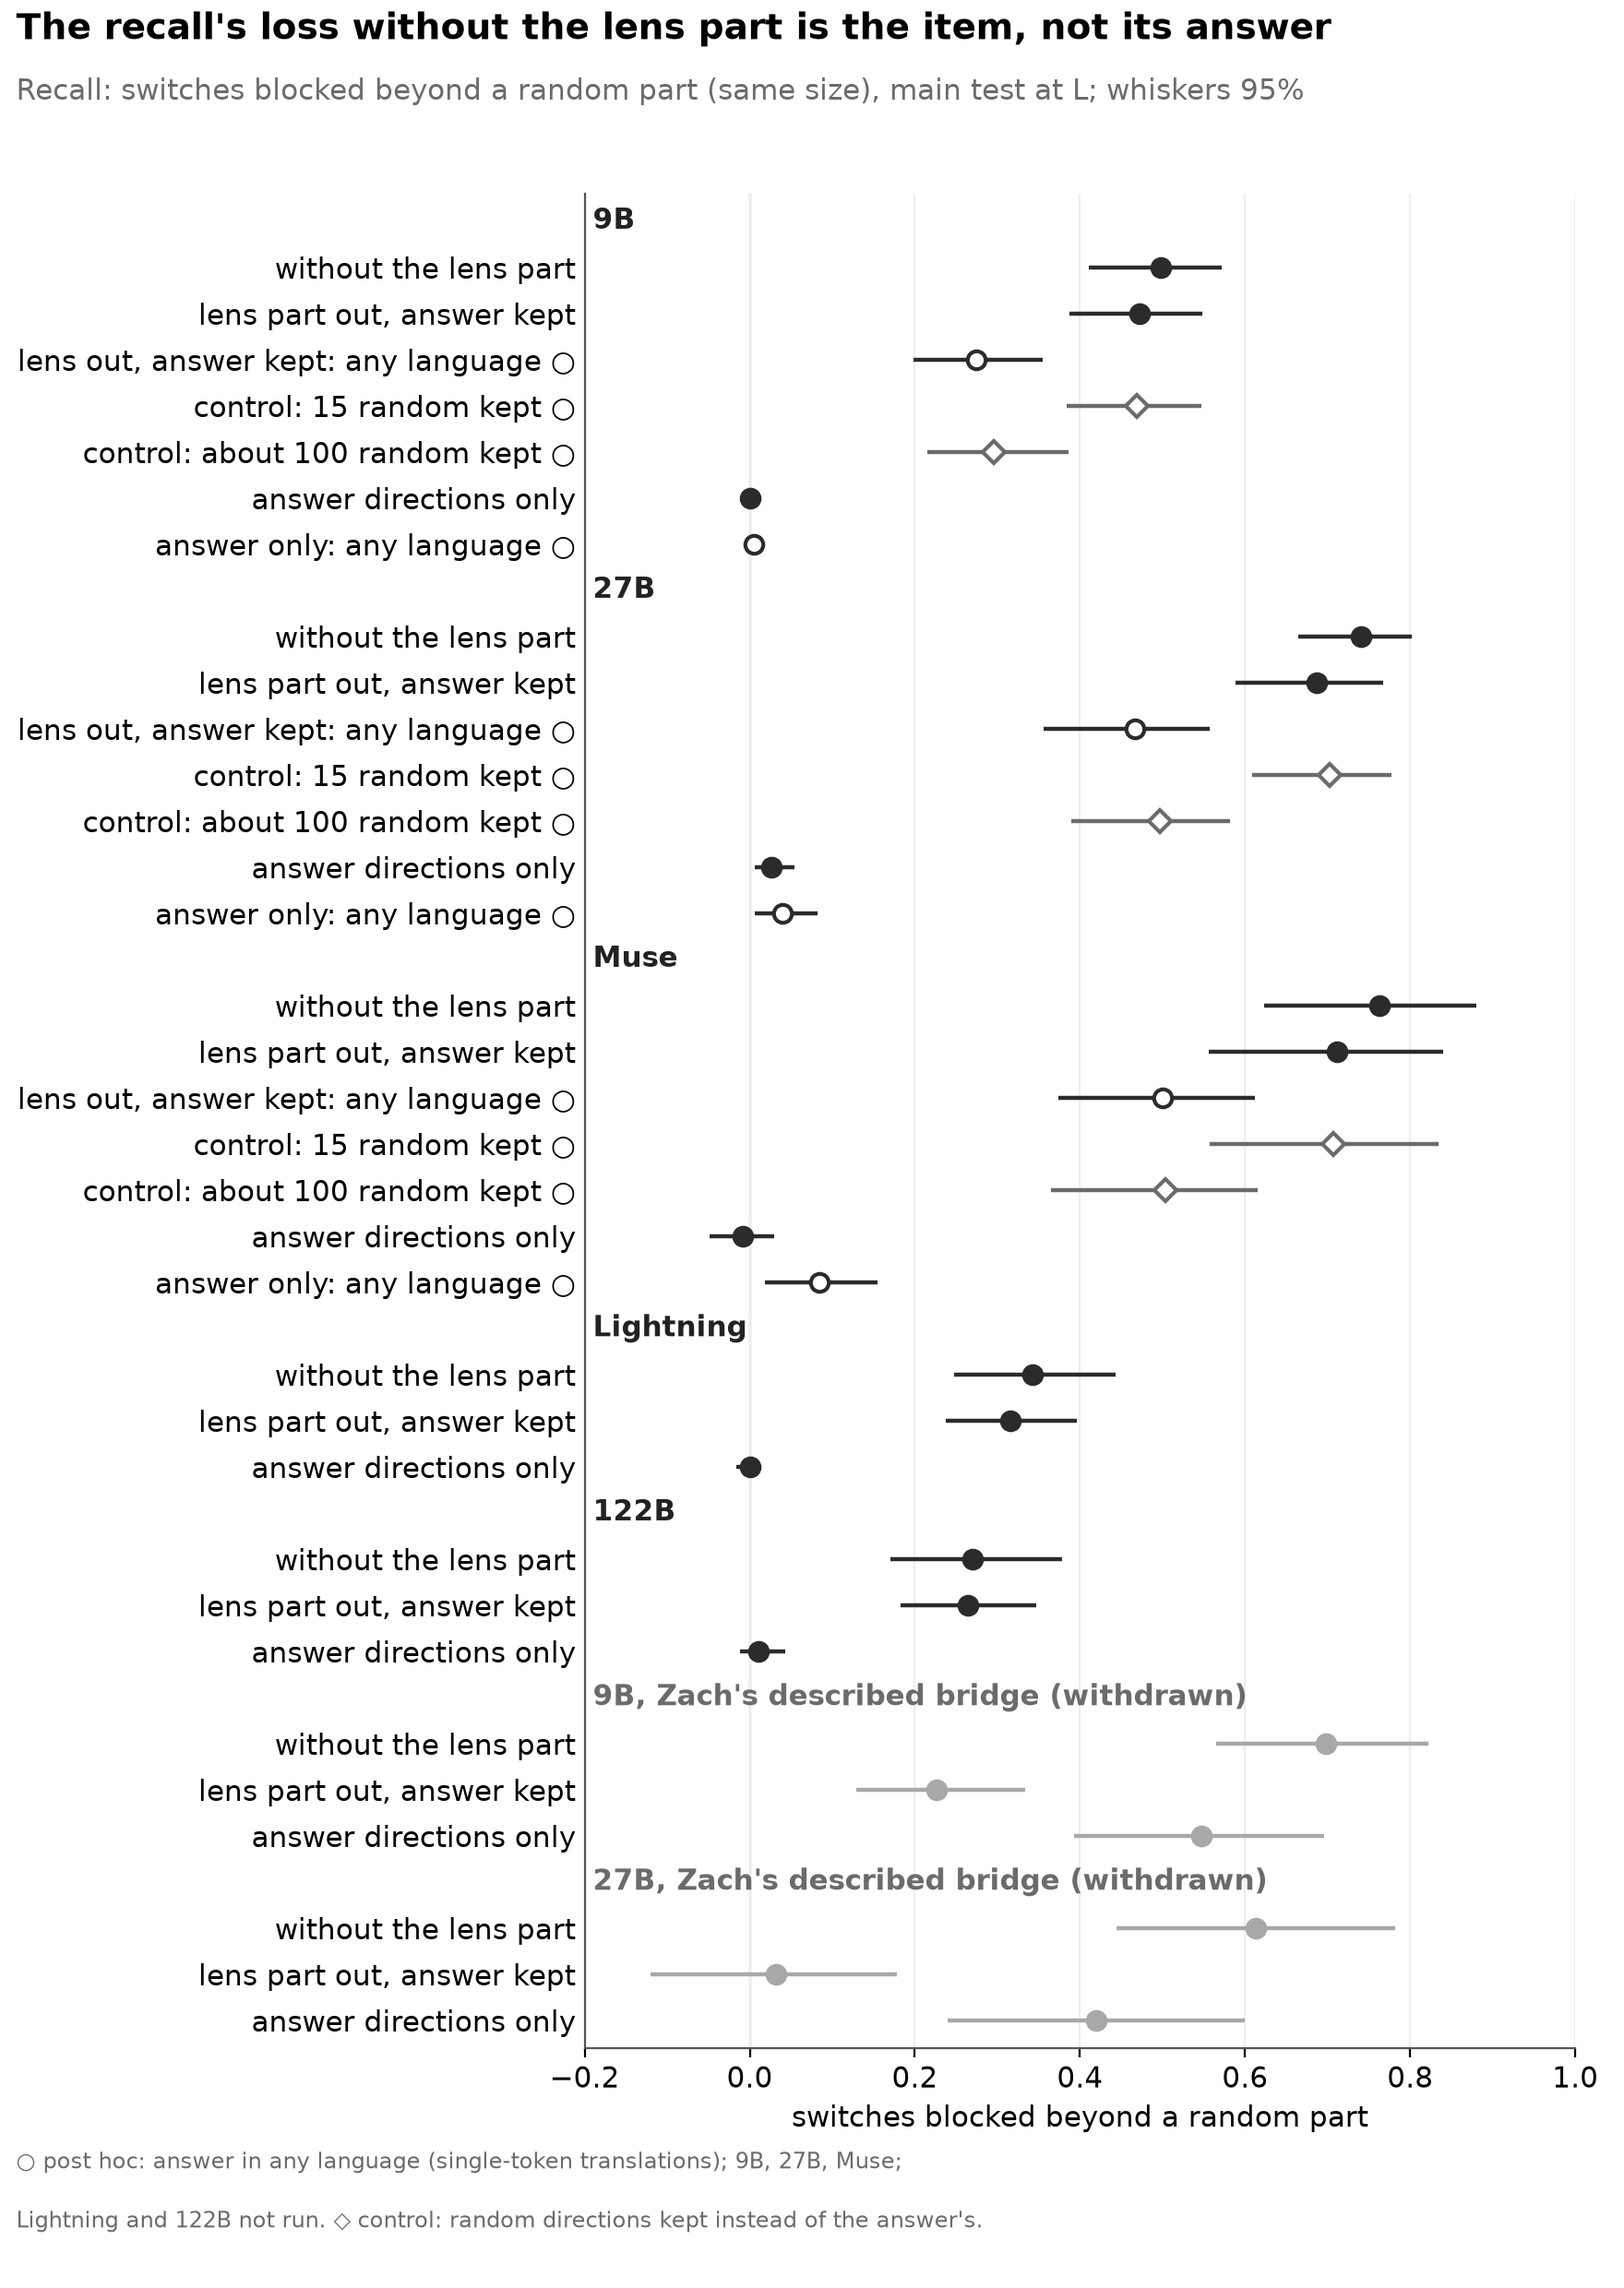
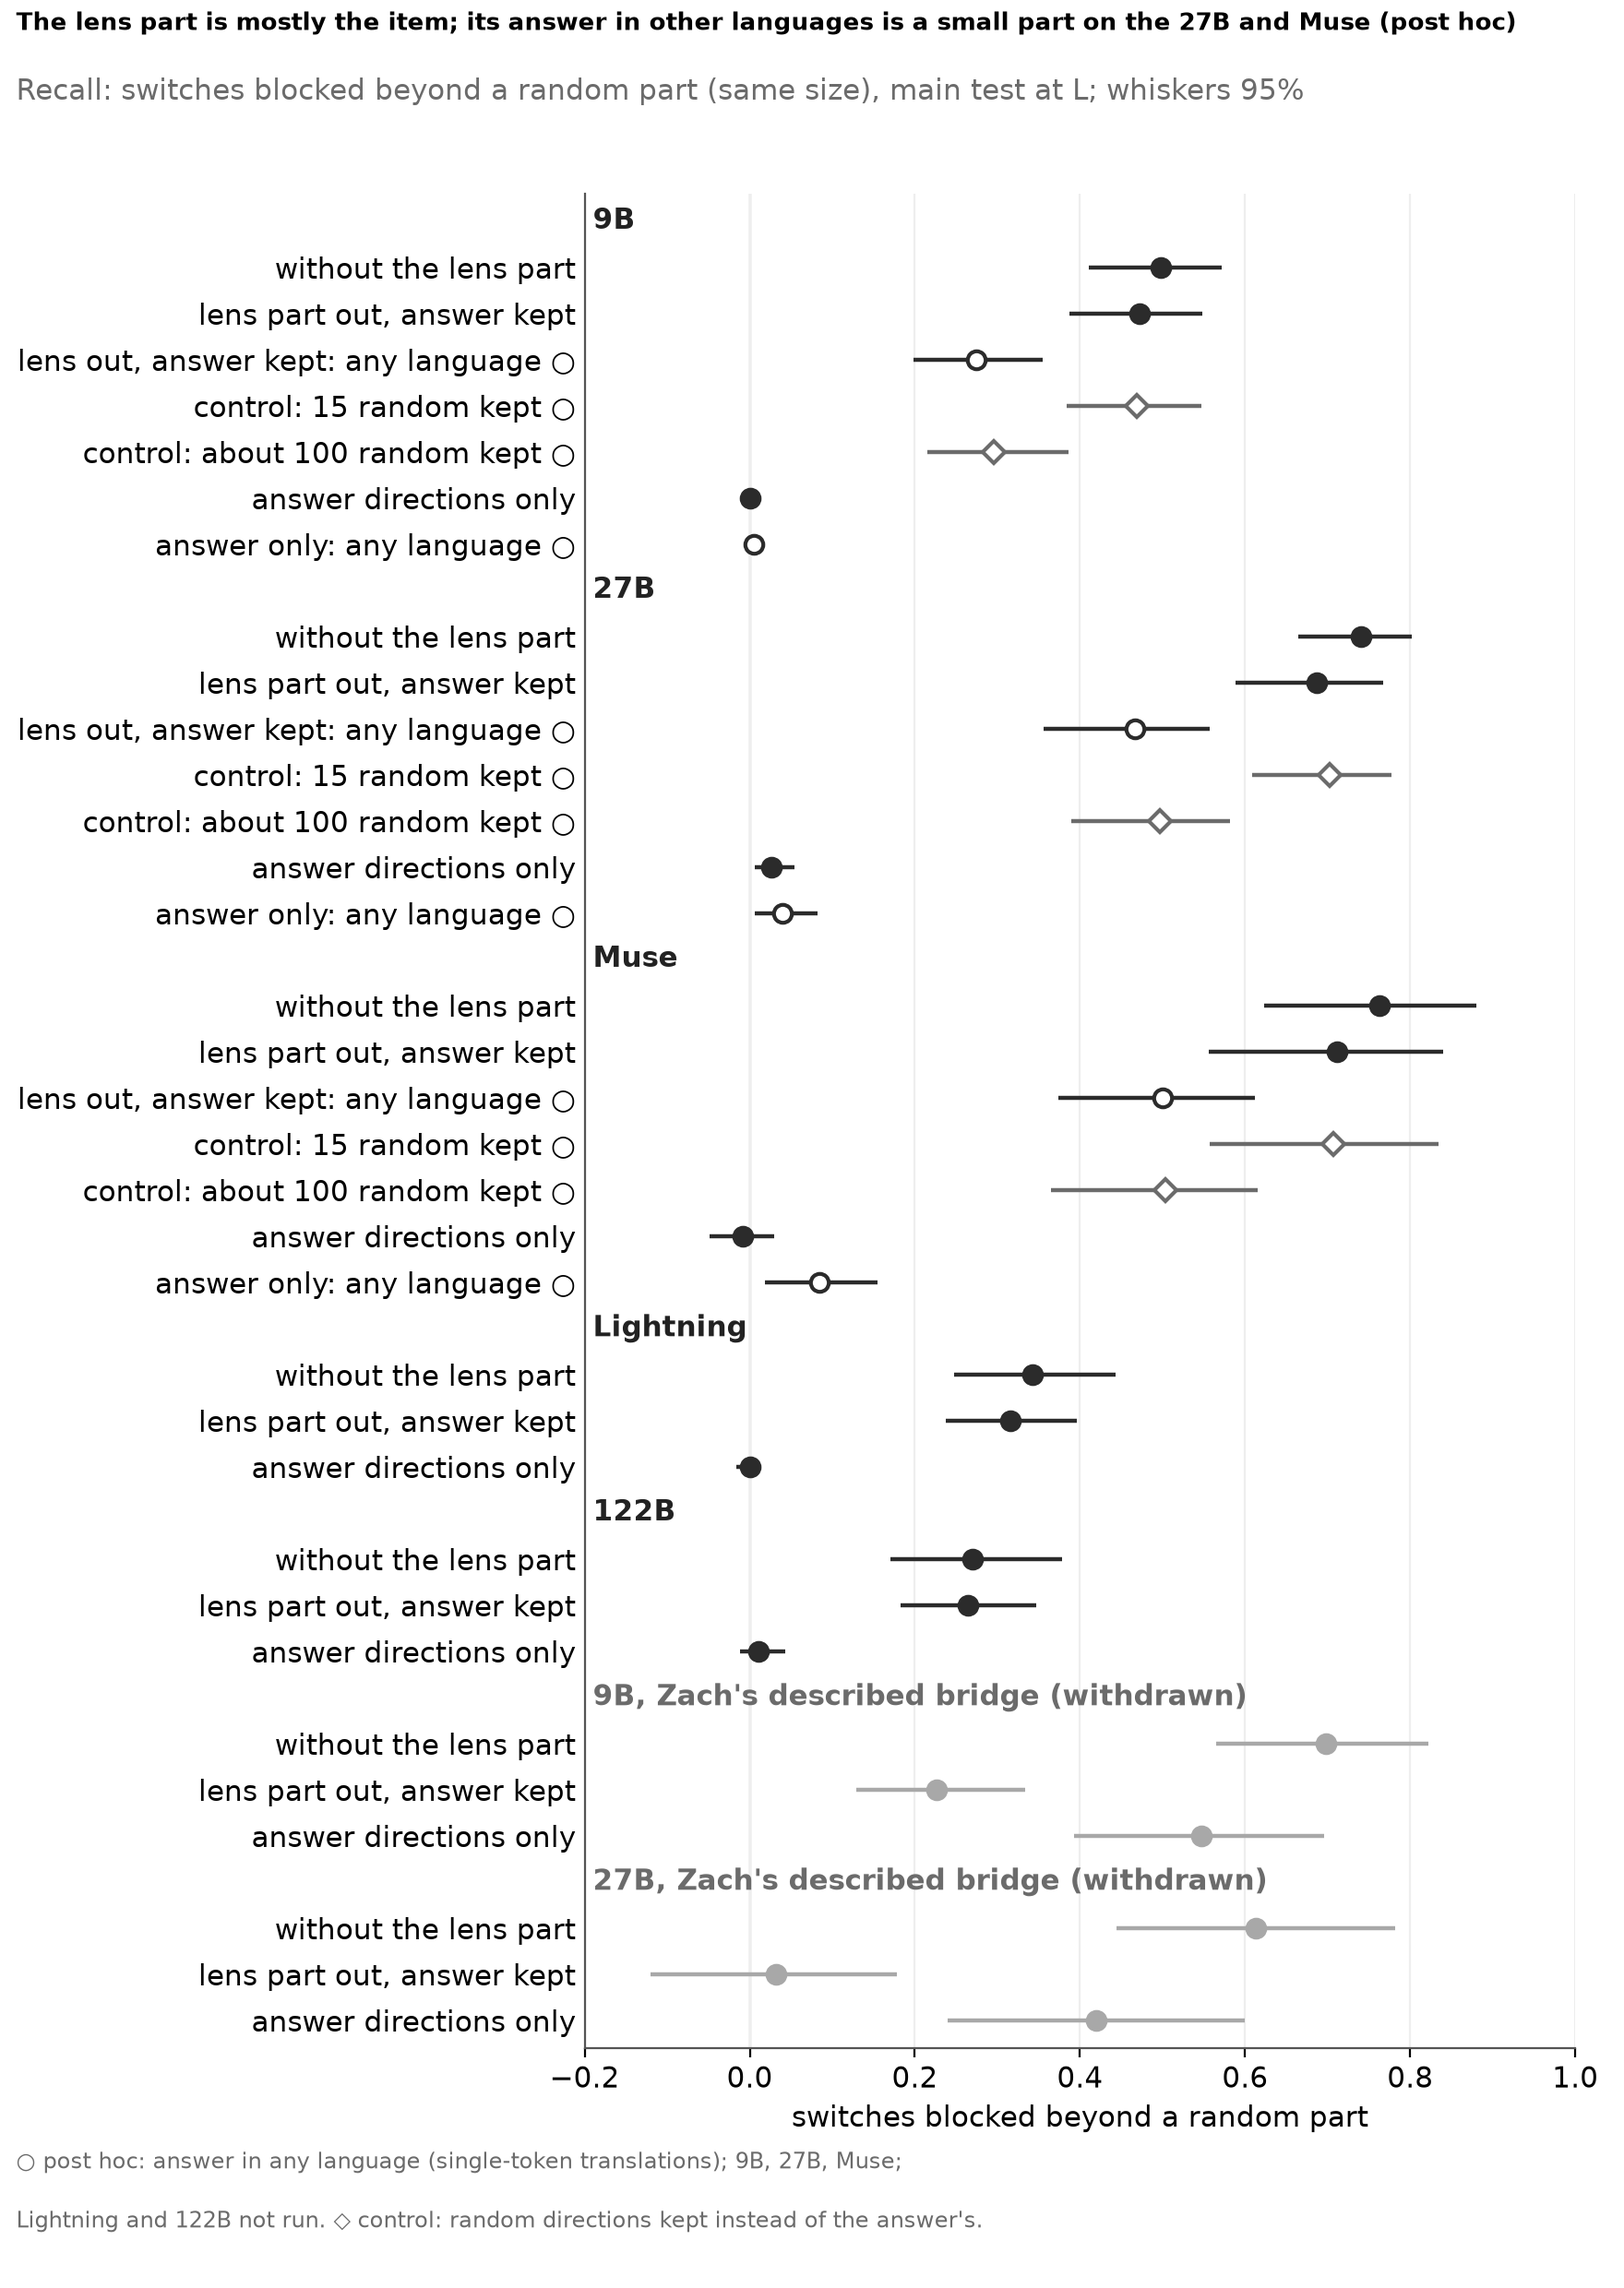
ledger_answer_control: title reworded (the lens part is mostly the item; its answer in other languages is a small part on the 27B and Muse, post hoc; Dan 30 Oct)

Changed region(s): [[0.0, 0.0, 0.9375, 0.031]]

diff --git a/scripts/ledger_figures.py b/scripts/ledger_figures.py
@@ -193,8 +193,8 @@ def answer_control(plt) -> str:
     n_rows = sum(len(b[1]) + 1 for b in blocks)
     fig, ax = plt.subplots(figsize=(S.WIDTH, 0.27 * n_rows + 1.6))
     fig.subplots_adjust(left=0.36, right=0.97, top=1 - 1.05 / fig.get_figheight(), bottom=1.3 / fig.get_figheight())
-    S.title(fig, "The recall's loss without the lens part is the item, not its answer",
-            "Recall: switches blocked beyond a random part (same size), main test at L; whiskers 95%")  # fmt: skip
+    S.title(fig, "The lens part is mostly the item; its answer in other languages is a small part on the 27B and Muse (post hoc)",
+            "Recall: switches blocked beyond a random part (same size), main test at L; whiskers 95%", limit=115)  # fmt: skip
     fig.text(0.01, 0.62 / fig.get_figheight(), "○ post hoc: answer in any language (single-token translations); 9B, 27B, Muse;", fontsize=8.5, color=S.COL["muted"], ha="left", va="bottom")
     fig.text(0.01, 0.3 / fig.get_figheight(), "Lightning and 122B not run. ◇ control: random directions kept instead of the answer's.", fontsize=8.5, color=S.COL["muted"], ha="left", va="bottom")
     y, ticks, labels = 0.0, [], []
